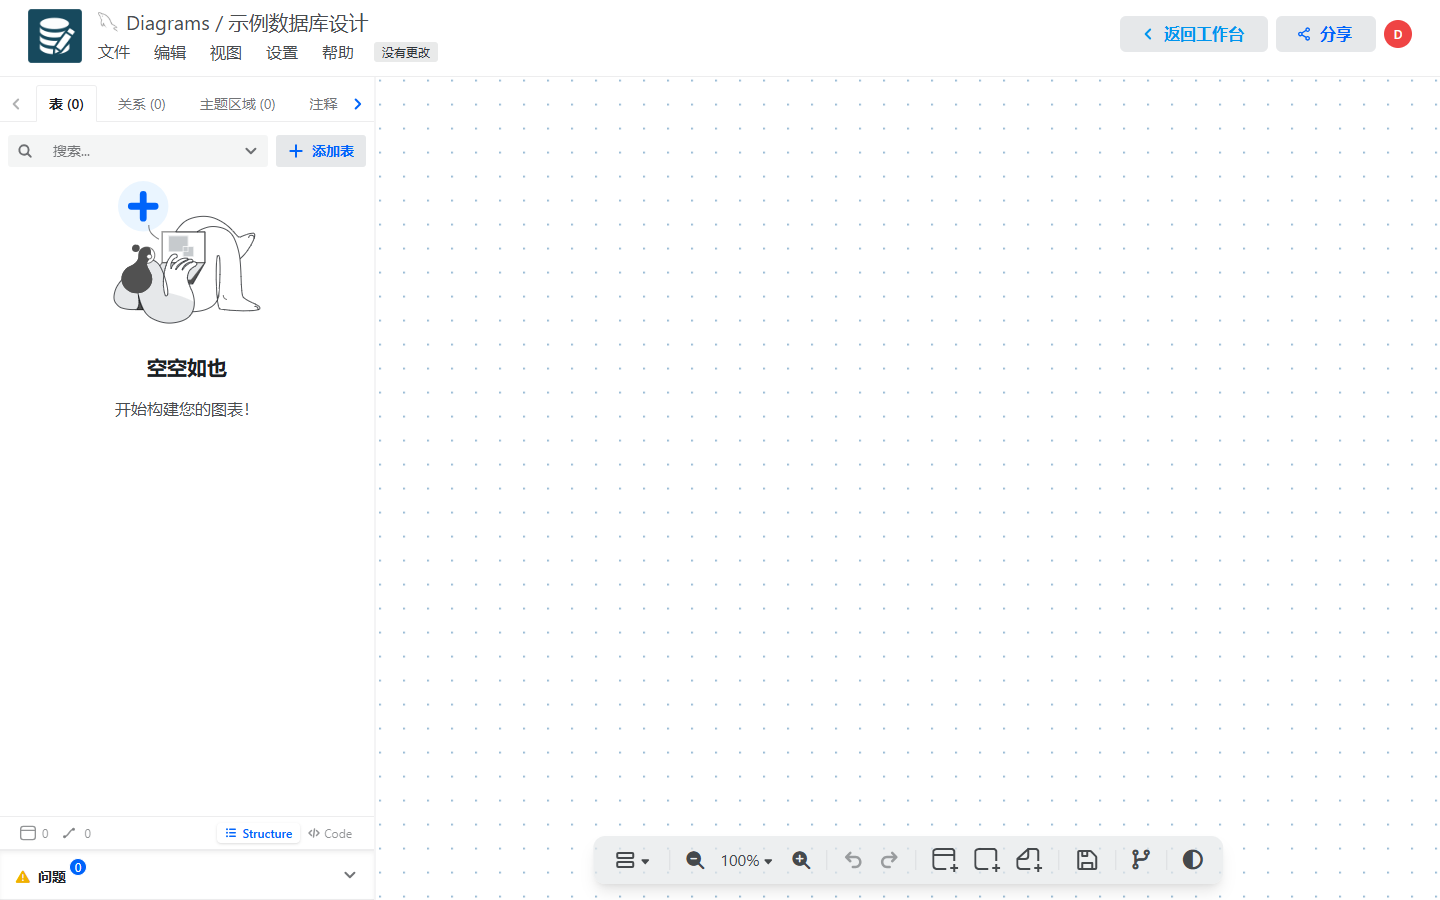
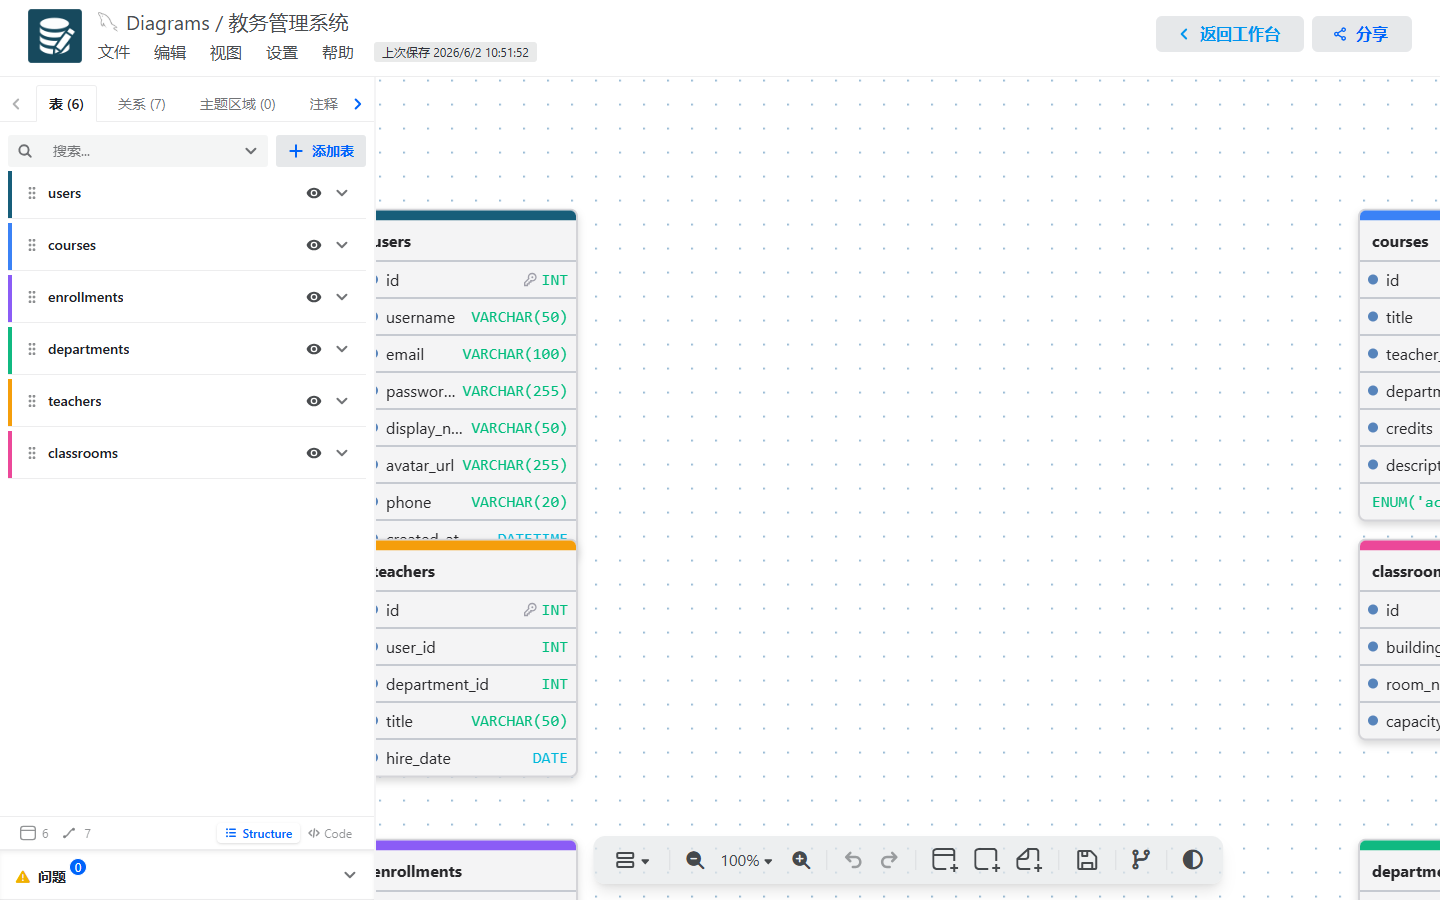
docs: update screenshots with landing page and tables in editor
- Add landing page screenshot, replace login with landing
- Editor now shows example diagram with 6 tables and 7 relationships
- Fix: call last_insert_rowid() before saveDbToDisk() in createUser
- Fix: clientDist auto-detection for Docker vs local

diff --git a/server/src/models/User.js b/server/src/models/User.js
@@ -9,9 +9,9 @@ export function createUser(username, password, displayName) {
     "INSERT INTO users (username, password_hash, display_name) VALUES (?, ?, ?)",
     [username, hash, displayName || username],
   );
-  saveDbToDisk();
   const result = db.exec("SELECT last_insert_rowid() as id");
   const id = result[0].values[0][0];
+  saveDbToDisk();
   return { id, username, displayName: displayName || username };
 }
 

diff --git a/README.en.md b/README.en.md
@@ -7,10 +7,10 @@
 A web application for real-time collaborative ER diagram editing, based on [DrawDB](https://github.com/drawdb-io/drawdb).
 
 <p align="center">
-  <img src="docs/images/login.png" alt="Login page" width="400" />
-  <img src="docs/images/dashboard.png" alt="Dashboard" width="400" />
+  <img src="docs/images/landing.png" alt="Home page" width="800" />
   <br/>
-  <img src="docs/images/editor.png" alt="Editor" width="800" />
+  <img src="docs/images/dashboard.png" alt="Dashboard" width="400" />
+  <img src="docs/images/editor.png" alt="Editor" width="400" />
 </p>
 
 ## Tech Stack

diff --git a/README.md b/README.md
@@ -7,10 +7,10 @@
 基于 [DrawDB](https://github.com/drawdb-io/drawdb) 改造，支持多人实时协作编辑 ER 图的 Web 应用。
 
 <p align="center">
-  <img src="docs/images/login.png" alt="登录页" width="400" />
-  <img src="docs/images/dashboard.png" alt="仪表盘" width="400" />
+  <img src="docs/images/landing.png" alt="首页" width="800" />
   <br/>
-  <img src="docs/images/editor.png" alt="编辑器" width="800" />
+  <img src="docs/images/dashboard.png" alt="仪表盘" width="400" />
+  <img src="docs/images/editor.png" alt="编辑器" width="400" />
 </p>
 
 ## 技术栈
